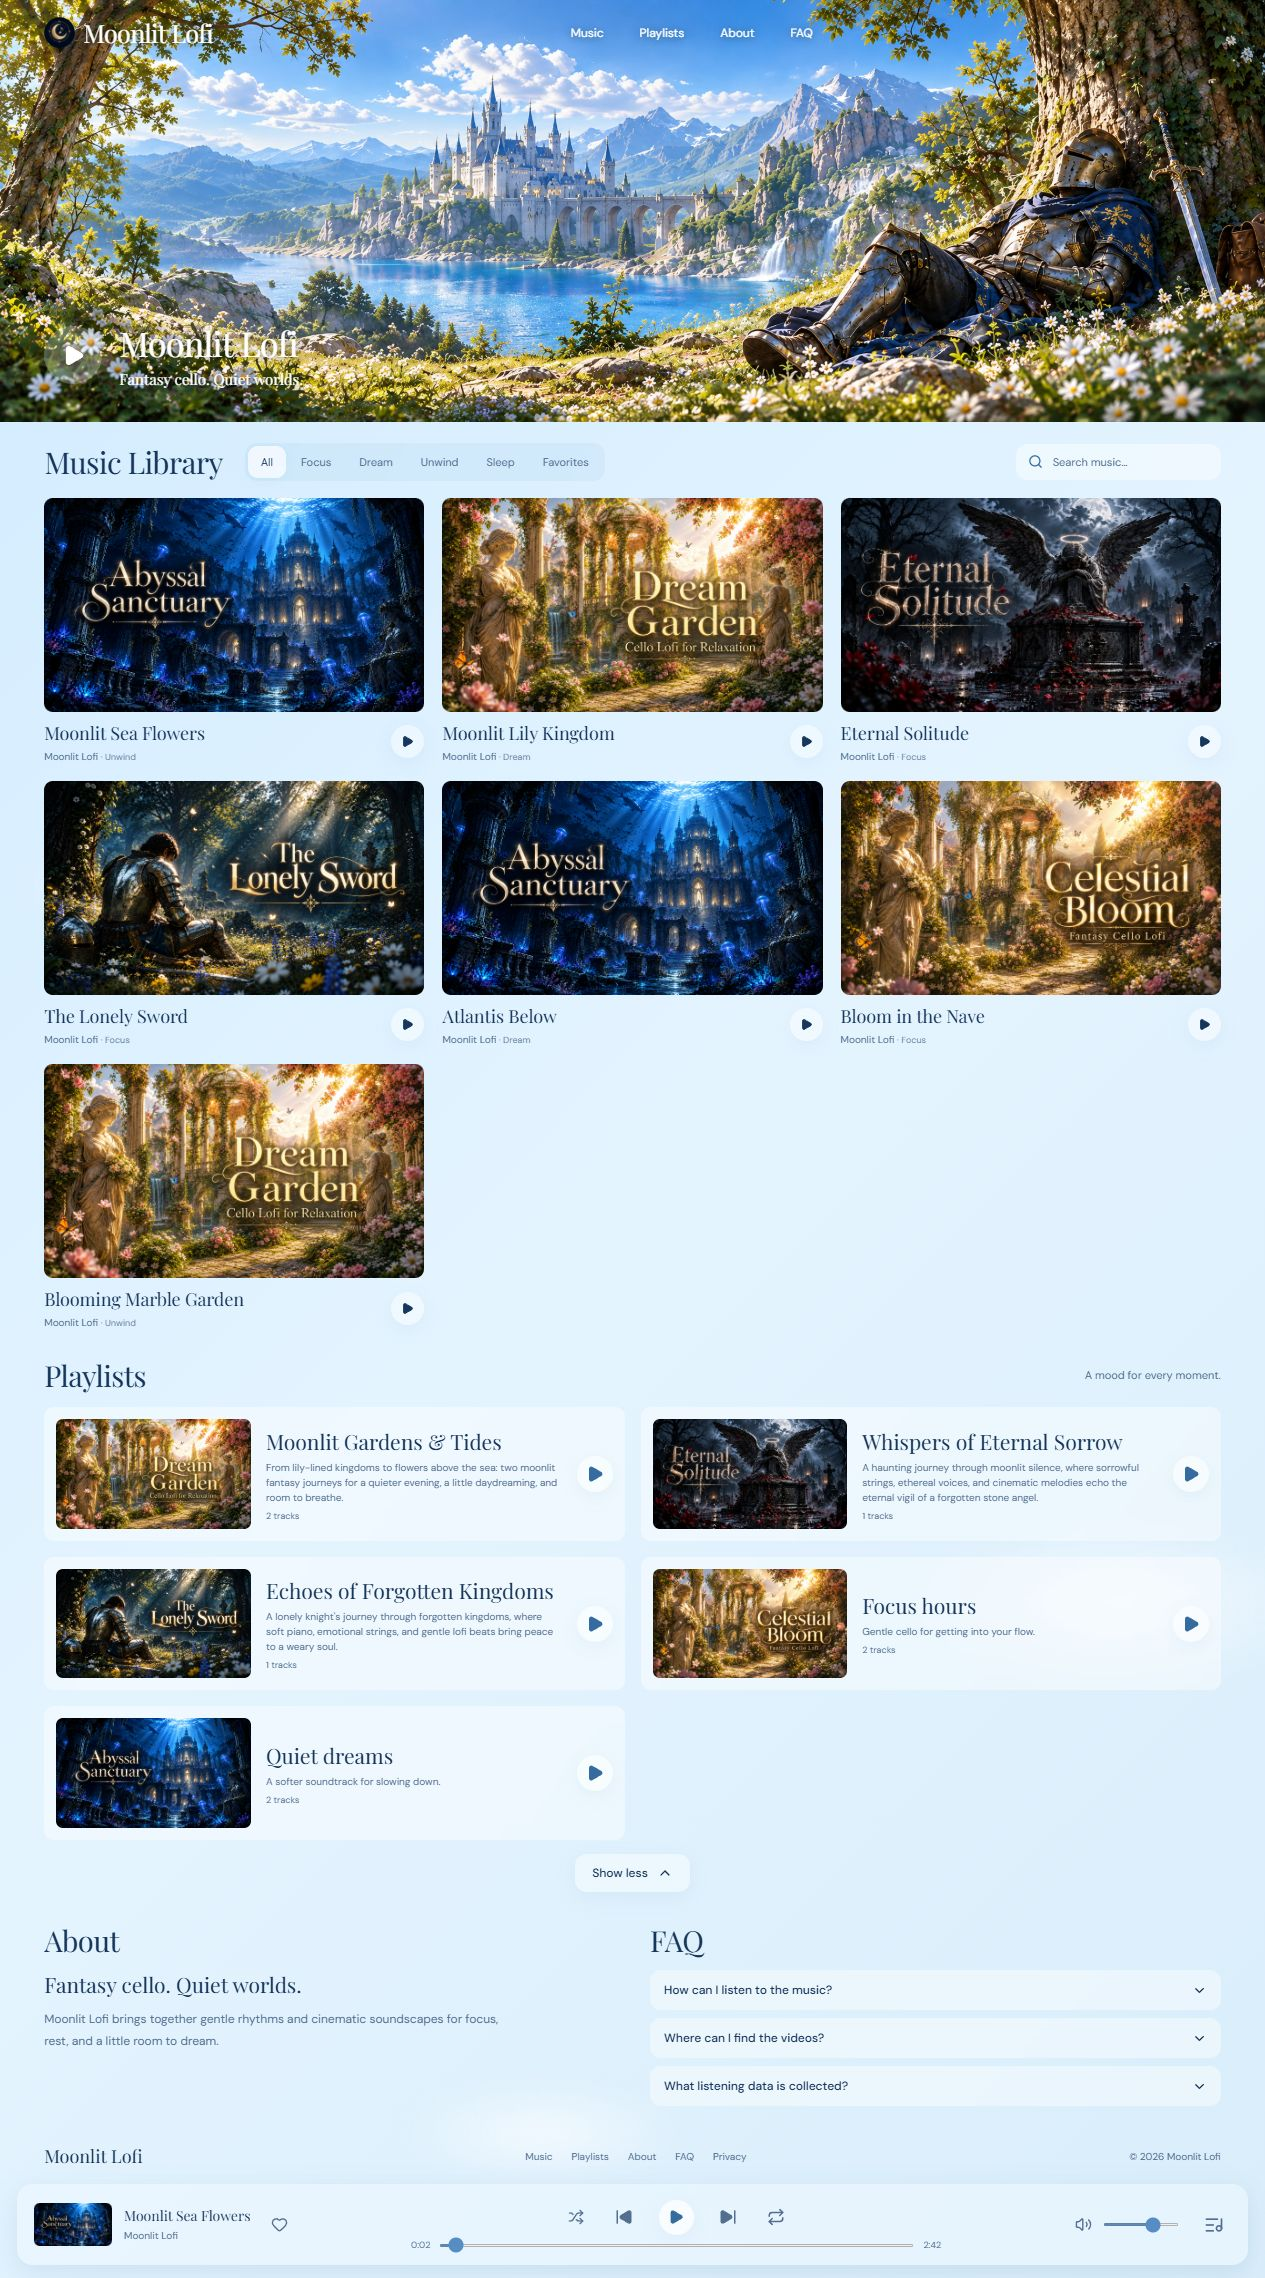
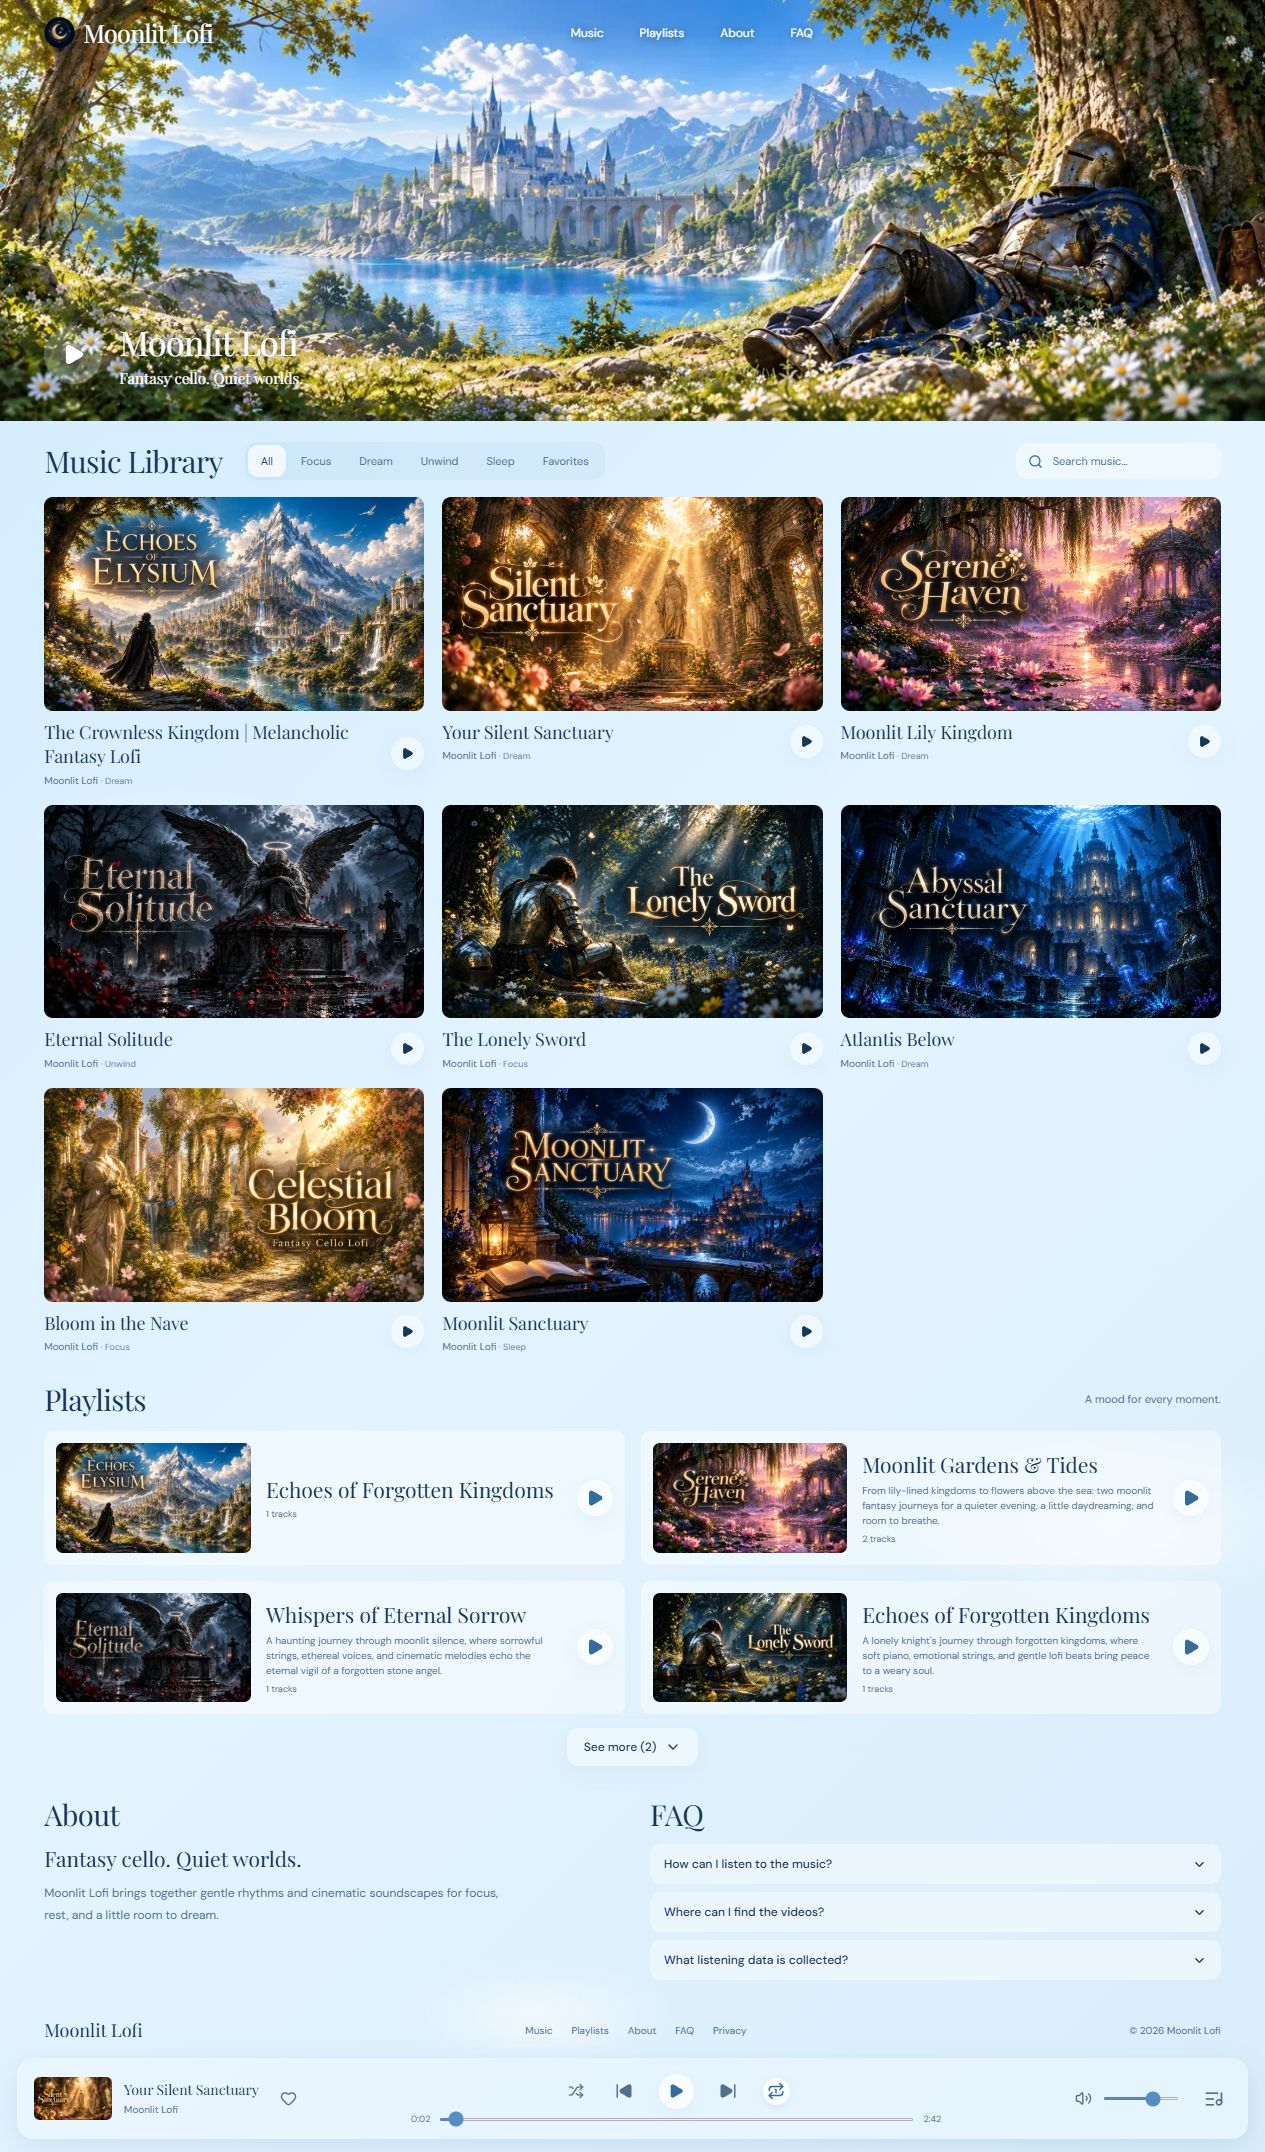
Keep initial media state empty until fresh catalog arrives and refresh screenshot

diff --git a/app/moonlit-app.tsx b/app/moonlit-app.tsx
@@ -30,10 +30,10 @@ export default function MoonlitApp({isAdmin=false,initialStudio=false}:{isAdmin?
  function cycleRepeat(){setRepeat(value=>value==='off'?'all':value==='all'?'one':'off')}
  function ended(){flush();if(repeat==='one'){if(audio.current){audio.current.currentTime=0;last.current=0;audio.current.play().catch(()=>setNotice('Press play to begin listening.'))}return}const index=queue.findIndex(t=>t.id===selected.id);if(repeat==='off'&&(!queue.length||index===queue.length-1)){setPlaying(false);return}next()}
  function favorite(){const ids=liked.includes(selected.id)?liked.filter(id=>id!==selected.id):[...liked,selected.id];setLiked(ids);localStorage.setItem('moonlit-favorites',JSON.stringify(ids))}
- function remember(){const a=audio.current;if(!a)return;try{localStorage.setItem(listeningKey,JSON.stringify({version:1,trackId:selected.id,position:a.currentTime,playlistId:activePlaylist,repeat,shuffle,volume:volume.current}))}catch{}}
+ function remember(){const a=audio.current;if(!a||!catalogReady)return;try{localStorage.setItem(listeningKey,JSON.stringify({version:1,trackId:selected.id,position:a.currentTime,playlistId:activePlaylist,repeat,shuffle,volume:volume.current}))}catch{}}
  function restorePosition(){const a=audio.current;if(!a||!Number.isFinite(a.duration))return;a.volume=volume.current;if(pendingSeek.current!==null){const point=Math.max(0,Math.min(pendingSeek.current,Math.max(0,a.duration-1)));a.currentTime=point;last.current=point;setPosition(point);pendingSeek.current=null}setDuration(a.duration)}
  useEffect(()=>{const save=()=>{remember();flush()};window.addEventListener('pagehide',save);const visibility=()=>{if(document.visibilityState==='hidden')save()};document.addEventListener('visibilitychange',visibility);return()=>{window.removeEventListener('pagehide',save);document.removeEventListener('visibilitychange',visibility)}},[selected,activePlaylist,repeat,shuffle]);
- useEffect(()=>{if(!('mediaSession' in navigator))return;const session=navigator.mediaSession;session.metadata=new MediaMetadata({title:selected.title,artist:'Moonlit Lofi',album:playlist?.title||'Moonlit Lofi',artwork:[{src:new URL(selected.cover,location.origin).href}]});session.playbackState=playing?'playing':'paused';const actions:Partial<Record<MediaSessionAction,MediaSessionActionHandler>>={play:()=>audio.current?.play().catch(()=>{}),pause:()=>audio.current?.pause(),previoustrack:()=>next(-1),nexttrack:()=>next(),seekbackward:d=>{const a=audio.current;if(a){a.currentTime=Math.max(0,a.currentTime-(d.seekOffset||10));last.current=a.currentTime}},seekforward:d=>{const a=audio.current;if(a&&Number.isFinite(a.duration)){a.currentTime=Math.min(a.duration,a.currentTime+(d.seekOffset||10));last.current=a.currentTime}},seekto:d=>{const a=audio.current;if(a&&d.seekTime!==undefined&&Number.isFinite(a.duration)){a.currentTime=Math.max(0,Math.min(a.duration,d.seekTime));last.current=a.currentTime}}};for(const [name,handler] of Object.entries(actions)){try{session.setActionHandler(name as MediaSessionAction,handler!)}catch{}}return()=>{for(const name of Object.keys(actions)){try{session.setActionHandler(name as MediaSessionAction,null)}catch{}}}},[selected,playing,activePlaylist,shuffle,tracks,playlists]);
+ useEffect(()=>{if(!catalogReady||!('mediaSession' in navigator))return;const session=navigator.mediaSession;session.metadata=new MediaMetadata({title:selected.title,artist:'Moonlit Lofi',album:playlist?.title||'Moonlit Lofi',artwork:[{src:new URL(selected.cover,location.origin).href}]});session.playbackState=playing?'playing':'paused';const actions:Partial<Record<MediaSessionAction,MediaSessionActionHandler>>={play:()=>audio.current?.play().catch(()=>{}),pause:()=>audio.current?.pause(),previoustrack:()=>next(-1),nexttrack:()=>next(),seekbackward:d=>{const a=audio.current;if(a){a.currentTime=Math.max(0,a.currentTime-(d.seekOffset||10));last.current=a.currentTime}},seekforward:d=>{const a=audio.current;if(a&&Number.isFinite(a.duration)){a.currentTime=Math.min(a.duration,a.currentTime+(d.seekOffset||10));last.current=a.currentTime}},seekto:d=>{const a=audio.current;if(a&&d.seekTime!==undefined&&Number.isFinite(a.duration)){a.currentTime=Math.max(0,Math.min(a.duration,d.seekTime));last.current=a.currentTime}}};for(const [name,handler] of Object.entries(actions)){try{session.setActionHandler(name as MediaSessionAction,handler!)}catch{}}return()=>{for(const name of Object.keys(actions)){try{session.setActionHandler(name as MediaSessionAction,null)}catch{}}}},[selected,playing,activePlaylist,shuffle,tracks,playlists,catalogReady]);
  function progress(){const a=audio.current!;if(Number.isFinite(a.duration))setDuration(a.duration);const d=a.currentTime-last.current;if(!a.paused&&d>0&&d<2)elapsed.current+=d;last.current=a.currentTime;setPosition(a.currentTime);if(elapsed.current>=15)flush();if(Date.now()-savedAt.current>5000){remember();savedAt.current=Date.now()}if('mediaSession' in navigator&&Number.isFinite(a.duration)&&a.duration>0){try{navigator.mediaSession.setPositionState({duration:a.duration,playbackRate:a.playbackRate,position:Math.min(a.currentTime,a.duration)})}catch{}}}
  return <main>
  <header><a className="brand" href="#"><img src="/media/logo.png" alt=""/>Moonlit Lofi</a><nav className={menu?'mobile-open':''} aria-label="Main navigation">{[['#library','Music'],['#playlists','Playlists'],['#about','About'],['#faq','FAQ']].map(([href,label])=><a key={href} href={href} onClick={()=>setMenu(false)}>{label}</a>)}</nav><div className="header-actions">{isAdmin?<Button variant="glass" size="sm" onClick={()=>setStudio(true)}><SlidersHorizontal data-icon="inline-start"/>Studio</Button>:null}<button className="menu-button" aria-label="Toggle navigation" aria-expanded={menu} onClick={()=>setMenu(!menu)}>{menu?<X/>:<Menu/>}</button></div></header>

diff --git a/app/artwork.tsx b/app/artwork.tsx
@@ -5,5 +5,5 @@ import {artworkSource} from '@/lib/artwork-sources';
 type Props={src:string;alt:string;className?:string;hero?:boolean;loading?:'lazy'|'eager';fetchPriority?:'high'|'low'|'auto';sizes?:string};
 export default function Artwork({hero=false,sizes,loading='lazy',src,...props}:Props){
  const [failedSource,setFailedSource]=useState('');
- return <Image {...props} src={artworkSource(src)} unoptimized={failedSource===src} onError={()=>setFailedSource(src)} width={hero?1800:1280} height={hero?600:720} sizes={sizes||(hero?'100vw':'(max-width: 650px) 90vw, 32vw')} loading={hero?'eager':loading} quality={80}/>;
+ return <Image key={src} {...props} src={artworkSource(src)} unoptimized={failedSource===src} onError={()=>setFailedSource(src)} width={hero?1800:1280} height={hero?600:720} sizes={sizes||(hero?'100vw':'(max-width: 650px) 90vw, 32vw')} loading={hero?'eager':loading} quality={80}/>;
 }
